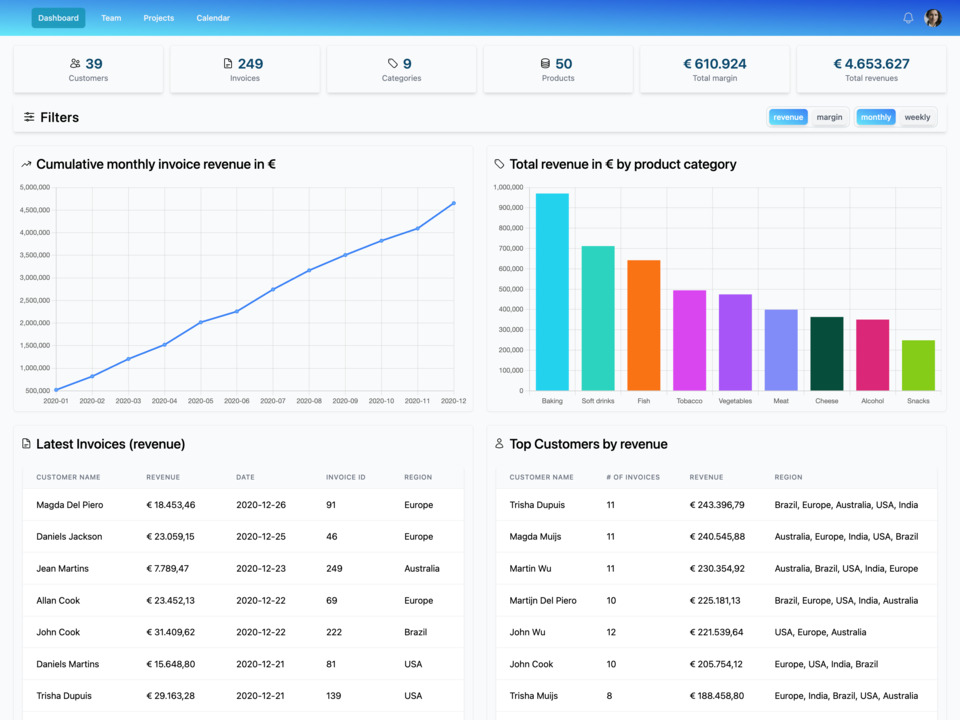
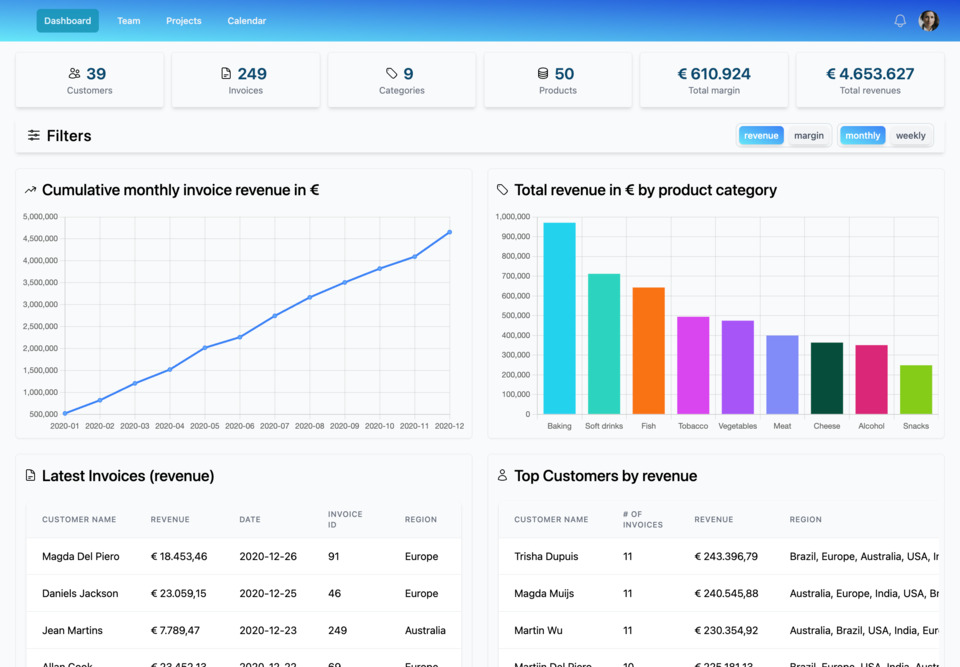
feat(playground): improve description for projects, add some styling, update img

diff --git a/app/playground/page.tsx b/app/playground/page.tsx
@@ -10,15 +10,15 @@ export type Project = {
 
 const projects: Project[] = [
   {
-    title: 'Dashboard - graphs, tables',
+    title: 'Dashboard: Graphs, tables',
     description:
-      'Dashboard to visualize data, including chart.js and tables, fully responsive',
+      'Dashboard to visualize data, including chart.js and tables, fully responsive.',
     link: 'https://d4risgryuo87c.cloudfront.net/',
     screenshot: '/playground/dashboard-optimized.jpg',
     repository: null, // private
   },
   {
-    title: 'Angular blog',
+    title: 'Angular blog: Markdown',
     description:
       'Markdown blog built in Angular. First thing I ever built in Angular to get hang of it.',
     link: 'https://d1c4tebsr2ti4f.cloudfront.net/blog',
@@ -26,7 +26,7 @@ const projects: Project[] = [
     repository: 'https://github.com/m-goos/angular-blog',
   },
   {
-    title: 'SWAPI - Star Wars dev API search page',
+    title: 'SWAPI API: Search page',
     description: 'Project built around SWAPI, the Star Wars API (MUI, React).',
     link: 'https://dc96s2y1hkfuo.cloudfront.net/',
     screenshot: '/playground/star-wars-optimized.jpg',
@@ -39,13 +39,15 @@ const projects: Project[] = [
  * - open the page in any chromium browser
  * - use "devices", choose "iPad Air" in horizontal mode
  * - open the command palette in DevTools: `cmd + shift + P`
- * - type "Capture screenshot"
+ * - type "Capture screenshot", saved to Downloads
+ *
+ * Then, optimize image.
  */
 
 export default function Page() {
   return (
-    <section>
-      <h1>Some deployed work</h1>
+    <>
+      <h1 className="text-2xl font-bold pb-4">Some deployed work</h1>
       <p>
         An overview of some tiny, simple things I built - a dated and incomplete
         view of what I can do, just putting it out there 🍔. All of this is
@@ -57,9 +59,11 @@ export default function Page() {
         as a CDN. A very simple <em>stack</em>.
       </p>
 
-      {projects.map((p) => (
-        <PlaygroundCard key={p.title} project={p} />
-      ))}
-    </section>
+      <section className="flex mt-4 gap-4">
+        {projects.map((p) => (
+          <PlaygroundCard key={p.title} project={p} />
+        ))}
+      </section>
+    </>
   );
 }
